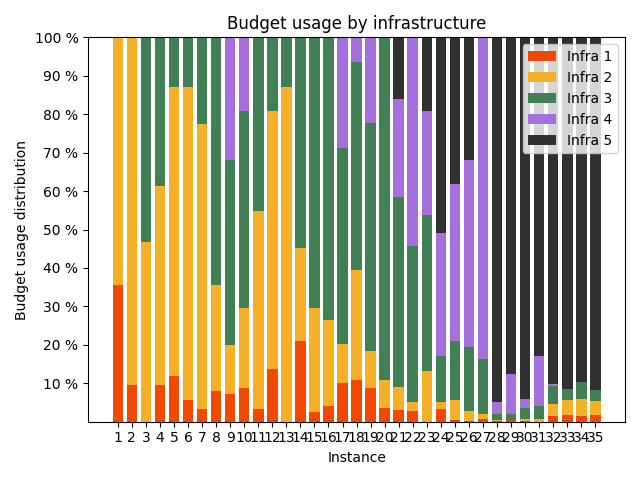
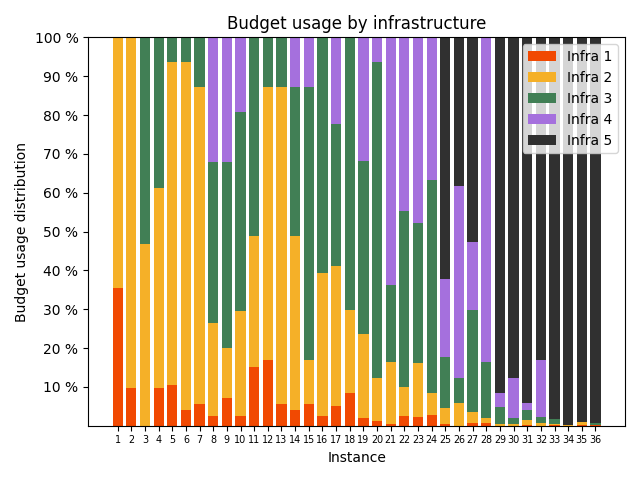
update doc with latest sensibility run data

diff --git a/thesis/doc/document.tex b/thesis/doc/document.tex
@@ -588,57 +588,57 @@
   \begin{sidewaystable}
     \centering
     \caption*{{\bf Ejecuciones de sensibilidad de parámetros}}
-    \begin{tabular}{cccccccc}
+    \begin{tabular}{cccccc}
         \toprule
-        Instancia & Factor de presupuesto & Puntos de quiebre & Funcion $f$ & Demanda transferida (\%) & Tiempo ejecución & Timeout & Gap (\%) \\
+        Instancia & Factor de presupuesto & Puntos de quiebre & Funcion $f$ & Demanda transferida (\%) & Tiempo ejecución (\%) \\
         \midrule
-        1 & 0,1 & 5 & lineal & 4,65 & 00:02:38 & False &  \\
-        2 & 0,1 & 20 & lineal & 5,81 & 02:29:15 & False &  \\
-        3 & 0,1 & 5 & logit & 4,65 & 00:01:13 & False &  \\
-        4 & 0,1 & 20 & logit & 5,81 & 00:05:39 & False &  \\
-        5 & 0,4 & 5 & concave down & 26,74 & 74:24:39 & True & 11 \\
-        6 & 0,4 & 20 & concave down & 31,40 & 72:27:21 & True & 4 \\
-        7 & 0,4 & 50 & concave down & 25,19 & 74:34:27 & True & 25 \\
-        8 & 0,4 & 5 & concave up & 10,08 & 72:29:10 & True & 53 \\
-        9 & 0,4 & 20 & concave up & 17,05 & 38:10:12 & False &  \\
-        10 & 0,4 & 50 & concave up & 18,22 & 72:26:36 & True & 7 \\
-        11 & 0,4 & 5 & lineal & 15,89 & 74:05:46 & True & 24 \\
-        12 & 0,4 & 20 & lineal & 21,32 & 72:23:43 & True & 6 \\
-        13 & 0,4 & 50 & lineal & 0,00 & 73:30:07 & True & 100 \\
-        14 & 0,4 & 5 & logit & 10,08 & 74:17:50 & True & 54 \\
-        15 & 0,4 & 20 & logit & 18,99 & 73:17:21 & True & 10 \\
-        16 & 0,4 & 50 & logit & 20,16 & 73:27:57 & True & 8 \\
-        17 & 0,8 & 5 & lineal & 26,36 & 72:20:38 & True & 27 \\
-        18 & 0,8 & 20 & lineal & 34,50 & 73:11:03 & True & 9 \\
-        19 & 0,8 & 5 & logit & 24,81 & 72:16:48 & True & 35 \\
-        20 & 0,8 & 20 & logit & 35,27 & 73:39:31 & True & 8 \\
-        21 & 1,6 & 20 & lineal & 48,84 & 72:31:29 & True & 13 \\
-        22 & 1,6 & 5 & logit & 46,90 & 74:17:51 & True & 19 \\
-        23 & 1,6 & 20 & logit & 29,07 & 72:37:12 & True & 52 \\
-        24 & 3,2 & 5 & lineal & 65,12 & 74:18:42 & True & 14 \\
-        25 & 3,2 & 20 & lineal & 75,58 & 74:02:19 & True & 2 \\
-        26 & 3,2 & 5 & logit & 70,93 & 74:23:43 & True & 6 \\
-        27 & 3,2 & 20 & logit & 80,23 & 73:18:06 & True & 1 \\
-        28 & 6,4 & 5 & lineal & 94,19 & 75:33:03 & True & 1 \\
-        29 & 6,4 & 20 & lineal & 95,74 & 01:48:30 & False &  \\
-        30 & 6,4 & 5 & logit & 88,37 & 76:54:28 & True & 1 \\
-        31 & 6,4 & 20 & logit & 90,31 & 00:11:02 & False &  \\
-        32 & 12,8 & 5 & lineal & 100,00 & 00:00:00 & False &  \\
-        33 & 12,8 & 20 & lineal & 100,00 & 00:00:01 & False &  \\
-        34 & 12,8 & 5 & logit & 90,70 & 00:00:00 & False &  \\
-        35 & 12,8 & 20 & logit & 90,70 & 00:00:01 & False &  \\
+        1 & 0,1 & 5 & lineal & 4,65 & 00:00:02 \\
+        2 & 0,1 & 20 & lineal & 5,81 & 00:00:11 \\
+        3 & 0,1 & 5 & logit & 5,13 & 00:00:01 \\
+        4 & 0,1 & 20 & logit & 6,41 & 00:00:08 \\
+        5 & 0,4 & 5 & concave down & 32,43 & 00:00:36 \\
+        6 & 0,4 & 20 & concave down & 36,49 & 00:07:40 \\
+        7 & 0,4 & 50 & concave down & 37,39 & 00:07:29 \\
+        8 & 0,4 & 5 & concave up & 15,50 & 00:00:18 \\
+        9 & 0,4 & 20 & concave up & 17,05 & 00:09:38 \\
+        10 & 0,4 & 50 & concave up & 18,22 & 14:07:09 \\
+        11 & 0,4 & 5 & lineal & 18,60 & 00:00:24 \\
+        12 & 0,4 & 20 & lineal & 21,32 & 00:06:17 \\
+        13 & 0,4 & 50 & lineal & 22,09 & 00:31:55 \\
+        14 & 0,4 & 5 & logit & 18,80 & 00:00:27 \\
+        15 & 0,4 & 20 & logit & 21,37 & 00:12:35 \\
+        16 & 0,4 & 50 & logit & 23,08 & 00:43:53 \\
+        17 & 0,8 & 5 & lineal & 32,17 & 00:00:59 \\
+        18 & 0,8 & 20 & lineal & 35,66 & 01:26:32 \\
+        19 & 0,8 & 5 & logit & 35,47 & 00:00:44 \\
+        20 & 0,8 & 20 & logit & 39,74 & 00:05:20 \\
+        21 & 1,6 & 5 & lineal & 49,22 & 00:03:22 \\
+        22 & 1,6 & 20 & lineal & 53,88 & 00:55:20 \\
+        23 & 1,6 & 5 & logit & 58,97 & 00:02:36 \\
+        24 & 1,6 & 20 & logit & 63,68 & 00:35:05 \\
+        25 & 3,2 & 5 & lineal & 71,71 & 00:00:54 \\
+        26 & 3,2 & 20 & lineal & 75,58 & 00:07:49 \\
+        27 & 3,2 & 5 & logit & 80,77 & 00:01:33 \\
+        28 & 3,2 & 20 & logit & 88,46 & 00:02:39 \\
+        29 & 6,4 & 5 & lineal & 94,57 & 00:00:05 \\
+        30 & 6,4 & 20 & lineal & 95,74 & 00:00:22 \\
+        31 & 6,4 & 5 & logit & 97,44 & 00:00:02 \\
+        32 & 6,4 & 20 & logit & 99,57 & 00:00:01 \\
+        33 & 12,8 & 5 & lineal & 100,00 & 00:00:00 \\
+        34 & 12,8 & 20 & lineal & 100,00 & 00:00:00 \\
+        35 & 12,8 & 5 & logit & 100,00 & 00:00:00 \\
+        36 & 12,8 & 20 & logit & 100,00 & 00:00:00 \\
         \bottomrule
     \end{tabular}
-      \caption{De las 20 instancias, 13 no terminaron en el tiempo máximo fijado, sin embargo solo 2 quedaron con un gap relativo alto (38\%) o indefinido. La demanda transferida se expresa en porcentaje del total de demanda transferible, en ambas instancias sin embargo, se puede estimar su cercania al optimo comparandola con una instancia con misma función $f$ y presupuesto pero distinta cantidad de puntos de quiebre que haya dado un resultado óptimo o cercano.} \label{table:sensibilityresults}
+      \caption{Todas las instancias fueron solucionadas al óptimo en tiempos relativamente cortos a menos de dos instancias cuyo tiempo de ejecución fue más de una hora.} \label{table:sensibilityresults}
   \end{sidewaystable}
 
-  Las instancias fueron ejecutadas con el solver CBC con un tiempo máximo de ejecución de 72 horas. Los resultados completos se encuentran en la tabla (\ref{table:sensibilityresults}). Se puede observar que a mayor cantidad de puntos de quiebre, fijando la función de transferencia de demanda y el presupuesto, se obtiene mayor transferencia de demanda. A su vez, variar la cantidad de puntos de quiebre parece hacer variar enormemente el tiempo de ejecución en algunos casos sin poderse determinar una relación directa entre la cantidad y la complejidad resultante. Esto tiene sentido ya que la función de transferencia es representada de manera mas precisa. Por otro lado se observa un fuerte impacto en el modelado del comportamiento de la transferencia de demanda respecto a la demanda transferida, si bien las funciones consideradas en este caso pueden ser irreales o exajeradas en sus curvaturas, esto demuestra que es un aspecto clave del problema. Luego, vemos que la demanda transferida en funcion de la cantidad de presupuesto, fijando cantidad de puntos de quiebre y función de transferencia de demanda, escala proporcionalmente hasta cierto punto donde su incidencia empieza a ser cada vez menor, ver figura (\ref{fig:demandtransferbybudgetlinear}).
+  Las instancias fueron ejecutadas con el solver CPLEX con un tiempo máximo de ejecución de 72 horas de wallclock. Los resultados completos se encuentran en la tabla (\ref{table:sensibilityresults}). Se puede observar que a mayor cantidad de puntos de quiebre, fijando la función de transferencia de demanda y el presupuesto, se obtiene mayor transferencia de demanda. A su vez, variar la cantidad de puntos de quiebre parece hacer variar enormemente el tiempo de ejecución en algunos casos sin poderse determinar una relación directa entre la cantidad y la complejidad resultante. Esto tiene sentido ya que la función de transferencia es representada de manera mas precisa. Por otro lado se observa un fuerte impacto en el modelado del comportamiento de la transferencia de demanda respecto a la demanda transferida, si bien las funciones consideradas en este caso pueden ser irreales o exajeradas en sus curvaturas, esto demuestra que es un aspecto clave del problema. Luego, vemos que la demanda transferida en funcion de la cantidad de presupuesto, fijando cantidad de puntos de quiebre y función de transferencia de demanda, escala proporcionalmente hasta cierto punto donde su incidencia empieza a ser cada vez menor, ver figura (\ref{fig:demandtransferbybudgetlinear}).
 
   \begin{figure}[h!]
     \centering
-    \includegraphics[width=6cm]{../resources/demand_by_budget_linear.png}
-    \includegraphics[width=6cm]{../resources/demand_by_budget_logit.png}
-      \caption{Porcentage de demanda transferida total en función del presupuesto asignado para Sioux Falls utilizando 20 puntos de quiebre y las funciones de transferencia de demanda lineal y logit. El comportamiento es similar en ambos casos y demuestra que la eficiencia de aumentar el presupuesto no es lineal.}
+    \includegraphics[width=8cm]{../resources/demand_by_budget.png}
+      \caption{Porcentage de demanda transferida total en función del presupuesto asignado para Sioux Falls utilizando 20 puntos de quiebre y las funciones de transferencia de demanda lineal y logit. El comportamiento es similar en ambos casos y muestra que la eficiencia de aumentar el presupuesto no es siempre la misma.}
     \label{fig:demandtransferbybudgetlinear}
   \end{figure}
 
@@ -655,40 +655,41 @@
         2 & 31,4 & 31 & 9,55 & 89,17 &  &  &  \\
         3 & 31,4 & 30 &  & 44,59 & 50,96 &  &  \\
         4 & 31,4 & 31 & 9,55 & 50,96 & 38,22 &  &  \\
-        5 & 125,6 & 125 & 11,94 & 74,84 & 12,74 &  &  \\
-        6 & 125,6 & 125 & 5,57 & 81,21 & 12,74 &  &  \\
-        7 & 125,6 & 124 & 3,18 & 73,25 & 22,29 &  &  \\
-        8 & 125,6 & 124 & 7,96 & 27,07 & 63,69 &  &  \\
+        5 & 125,6 & 125 & 10,35 & 82,80 & 6,37 &  &  \\
+        6 & 125,6 & 125 & 3,98 & 89,17 & 6,37 &  &  \\
+        7 & 125,6 & 125 & 5,57 & 81,21 & 12,74 &  &  \\
+        8 & 125,6 & 125 & 2,39 & 23,89 & 41,40 & 31,85 &  \\
         9 & 125,6 & 125 & 7,17 & 12,74 & 47,77 & 31,85 &  \\
-        10 & 125,6 & 125 & 8,76 & 20,70 & 50,96 & 19,11 &  \\
-        11 & 125,6 & 124 & 3,18 & 50,96 & 44,59 &  &  \\
-        12 & 125,6 & 125 & 13,54 & 66,88 & 19,11 &  &  \\
-        13 & 125,6 & 124 &  & 85,99 & 12,74 &  &  \\
-        14 & 125,6 & 124 & 20,70 & 23,89 & 54,14 &  &  \\
-        15 & 125,6 & 125 & 2,39 & 27,07 & 70,06 &  &  \\
-        16 & 125,6 & 125 & 3,98 & 22,29 & 73,25 &  &  \\
-        17 & 251,2 & 251 & 9,95 & 10,35 & 50,96 & 28,66 &  \\
-        18 & 251,2 & 251 & 10,75 & 28,66 & 54,14 & 6,37 &  \\
-        19 & 251,2 & 250 & 8,76 & 9,55 & 58,92 & 22,29 &  \\
-        20 & 251,2 & 251 & 3,58 & 7,17 & 89,17 &  &  \\
-        21 & 502,4 & 501 & 2,99 & 5,97 & 49,36 & 25,48 & 15,92 \\
-        22 & 502,4 & 502 & 2,79 & 2,39 & 40,61 & 54,14 &  \\
-        23 & 502,4 & 502 &  & 13,14 & 40,61 & 27,07 & 19,11 \\
-        24 & 1004,8 & 1004 & 3,18 & 1,99 & 11,94 & 31,85 & 50,96 \\
-        25 & 1004,8 & 1004 & 0,40 & 5,18 & 15,53 & 40,61 & 38,22 \\
-        26 & 1004,8 & 1003 & 0,30 & 2,39 & 16,72 & 48,57 & 31,85 \\
-        27 & 1004,8 & 1004 & 0,80 & 1,19 & 14,33 & 83,60 &  \\
-        28 & 2009,6 & 2006 & 0,10 & 0,40 & 1,39 & 3,18 & 94,75 \\
-        29 & 2009,6 & 2008 & 0,40 &  & 1,59 & 10,35 & 87,58 \\
-        30 & 2009,6 & 2008 & 0,10 & 0,50 & 2,99 & 2,39 & 93,95 \\
-        31 & 2009,6 & 2008 &  & 0,80 & 3,18 & 13,14 & 82,80 \\
-        32 & 4019,2 & 2858 & 1,00 & 2,24 & 3,38 & 0,40 & 64,09 \\
-        33 & 4019,2 & 2816 & 1,14 & 2,74 & 2,09 &  & 64,09 \\
-        34 & 4019,2 & 2876 & 1,14 & 3,04 & 3,28 &  & 64,09 \\
-        35 & 4019,2 & 2810 & 1,24 & 2,49 & 2,09 &  & 64,09 \\
+        10 & 125,6 & 125 & 2,39 & 27,07 & 50,96 & 19,11 &  \\
+        11 & 125,6 & 125 & 15,13 & 33,44 & 50,96 &  &  \\
+        12 & 125,6 & 125 & 16,72 & 70,06 & 12,74 &  &  \\
+        13 & 125,6 & 125 & 5,57 & 81,21 & 12,74 &  &  \\
+        14 & 125,6 & 125 & 3,98 & 44,59 & 38,22 & 12,74 &  \\
+        15 & 125,6 & 125 & 5,57 & 11,15 & 70,06 & 12,74 &  \\
+        16 & 125,6 & 125 & 2,39 & 36,62 & 60,51 &  &  \\
+        17 & 251,2 & 251 & 5,18 & 35,83 & 36,62 & 22,29 &  \\
+        18 & 251,2 & 251 & 8,36 & 21,50 & 70,06 &  &  \\
+        19 & 251,2 & 251 & 1,99 & 21,50 & 44,59 & 31,85 &  \\
+        20 & 251,2 & 251 & 1,19 & 11,15 & 81,21 & 6,37 &  \\
+        21 & 502,4 & 502 & 0,40 & 15,92 & 19,90 & 63,69 &  \\
+        22 & 502,4 & 502 & 2,39 & 7,56 & 45,38 & 44,59 &  \\
+        23 & 502,4 & 501 & 2,19 & 13,93 & 35,83 & 47,77 &  \\
+        24 & 502,4 & 502 & 2,79 & 5,57 & 54,94 & 36,62 &  \\
+        25 & 1004,8 & 1002 & 0,40 & 4,18 & 13,14 & 19,90 & 62,10 \\
+        26 & 1004,8 & 1004 &  & 5,97 & 6,37 & 49,36 & 38,22 \\
+        27 & 1004,8 & 1004 & 0,60 & 2,99 & 26,27 & 17,52 & 52,55 \\
+        28 & 1004,8 & 1004 & 0,80 & 1,19 & 14,33 & 83,60 &  \\
+        29 & 2009,6 & 2008 &  & 0,40 & 4,38 & 3,58 & 91,56 \\
+        30 & 2009,6 & 2008 &  & 0,40 & 1,59 & 10,35 & 87,58 \\
+        31 & 2009,6 & 2008 & 0,10 & 1,49 & 2,39 & 1,99 & 93,95 \\
+        32 & 2009,6 & 2004 &  & 0,60 & 1,59 & 14,73 & 82,80 \\
+        33 & 4019,2 & 2719 & 0,17 & 0,20 & 0,80 &  & 66,48 \\
+        34 & 4019,2 & 3048 &  & 0,20 &  &  & 75,64 \\
+        35 & 4019,2 & 2780 & 0,10 & 0,60 &  &  & 68,47 \\
+        36 & 4019,2 & 2994 & 0,05 &  & 0,40 &  & 74,04 \\
         \bottomrule
     \end{tabular}
-      \caption{Detalle de presupuesto utilizado por instancia por tipo de infrastructura. Las columnas Presupuesto y Presupuesto Utilizado estan en unidades de presupuesto.} \label{table:sensibilitybudgetusage}
+      \caption{Detalle de presupuesto utilizado por instancia por tipo de infrastructura. Las columnas Presupuesto y Presupuesto Utilizado están en unidades de presupuesto.} \label{table:sensibilitybudgetusage}
   \end{sidewaystable}
 
   \begin{figure}[h!]

diff --git a/scripts/processsensitivity.py b/scripts/processsensitivity.py
@@ -12,6 +12,7 @@ import bcnetwork as bc
 
 
 sort_by_columns = ['budget_factor', 'transfer_function', 'breakpoint_count']
+colors = list(bc.colors.values())
 
 
 def get_solution_path(model_path):
@@ -128,8 +129,11 @@ def generate_runs_dataframe(working_dir):
         if not solution:
             continue
 
+        max_demand_transfer_factor = model.breakpoints[-1][0]
+
         _, _, demands = zip(*model.odpairs)
-        total_demand = sum(demands)
+        total_demand = sum([int(d * max_demand_transfer_factor)
+                           for d in demands])
 
         data = get_row_from_model(model_path, model, solution, total_demand)
         rows.append(data)
@@ -267,24 +271,33 @@ def draw_budget_used_by_infrastructure(budget_use_df, output_path):
     ax.set_yticklabels(list(map(lambda v: f'{v} %', yticks)))
     ax.set_xlabel('Instance')
     ax.set_xticks(labels)
+    ax.tick_params(axis='x', labelsize='x-small')
     ax.legend()
 
     fig.tight_layout()
     fig.savefig(output_path)
 
 
-def draw_demand_transfered_by_budget(executions_df, output_path, function_name):
+def draw_demand_transfered_by_budget(
+    executions_df, output_path, functions=['lineal', 'logit'],
+):
     """
     Plot demand transfer percentage by budget
     for lineal function.
     """
     fig, ax = plt.subplots()
 
-    ax.plot(executions_df.budget,
-            executions_df.total_demand_transfered_percentage, color=bc.colors.blue)
-    ax.set_title(f'Demand transfer by budget for {function_name} function')
+    for index, function_name in enumerate(functions):
+        df = executions_df[executions_df.transfer_function == function_name]
+        ax.plot(df.budget,
+                df.total_demand_transfered_percentage,
+                color=colors[index],
+                label=function_name,
+                )
+    ax.set_title(f'Demand transfer by budget')
     ax.set_xlabel('Budget')
     ax.set_ylabel('Demand transfered (%)')
+    ax.legend()
     fig.tight_layout()
 
     fig.savefig(output_path)
@@ -314,16 +327,9 @@ def main():
         os.path.join(args.data_dir, 'abudget_use_by_infra.png'),
     )
 
-    df20 = executions_df[executions_df.breakpoint_count == 20]
     draw_demand_transfered_by_budget(
-        df20[df20.transfer_function == 'lineal'],
-        os.path.join(args.data_dir, 'ademand_by_bydget_linear.png'),
-        'lineal',
-    )
-    draw_demand_transfered_by_budget(
-        df20[df20.transfer_function == 'logit'],
-        os.path.join(args.data_dir, 'ademand_by_bydget_logit.png'),
-        'logit',
+        executions_df[executions_df.breakpoint_count == 20],
+        os.path.join(args.data_dir, 'ademand_by_budget.png'),
     )
 
 
